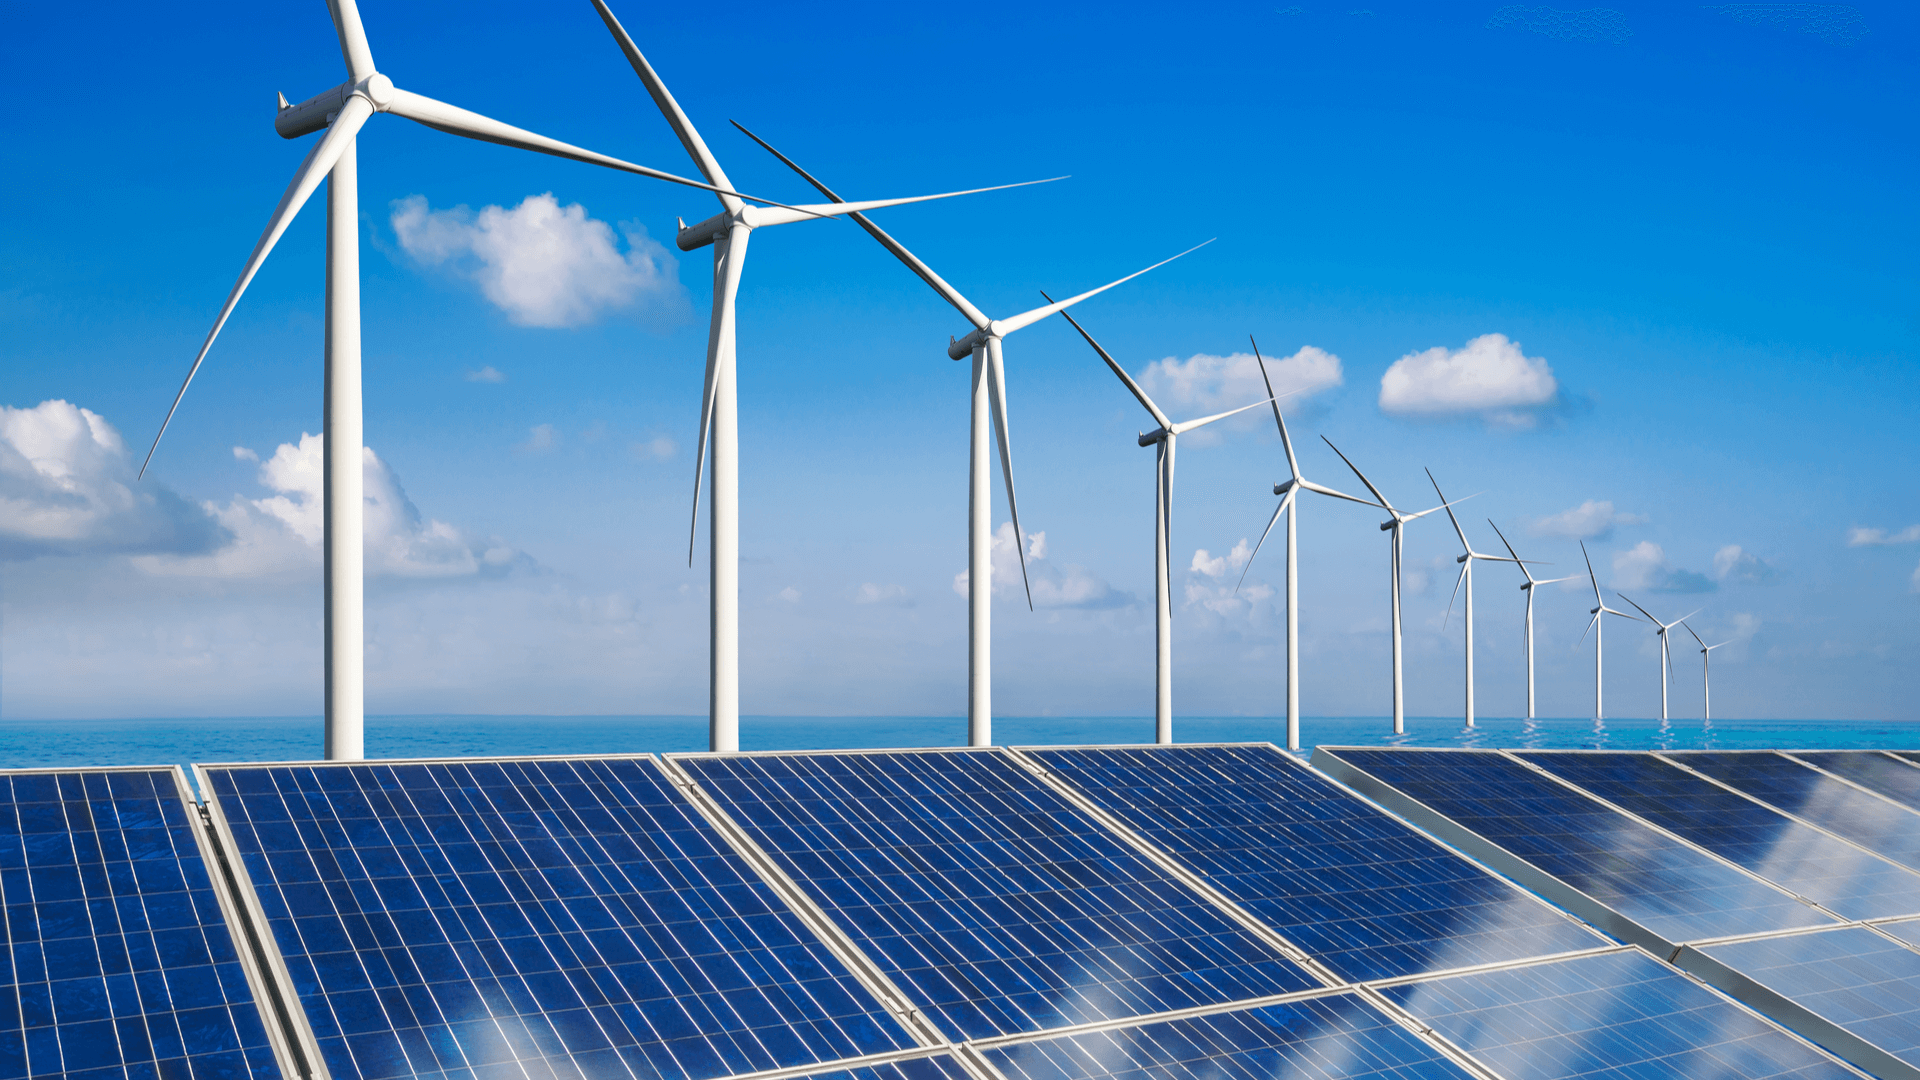
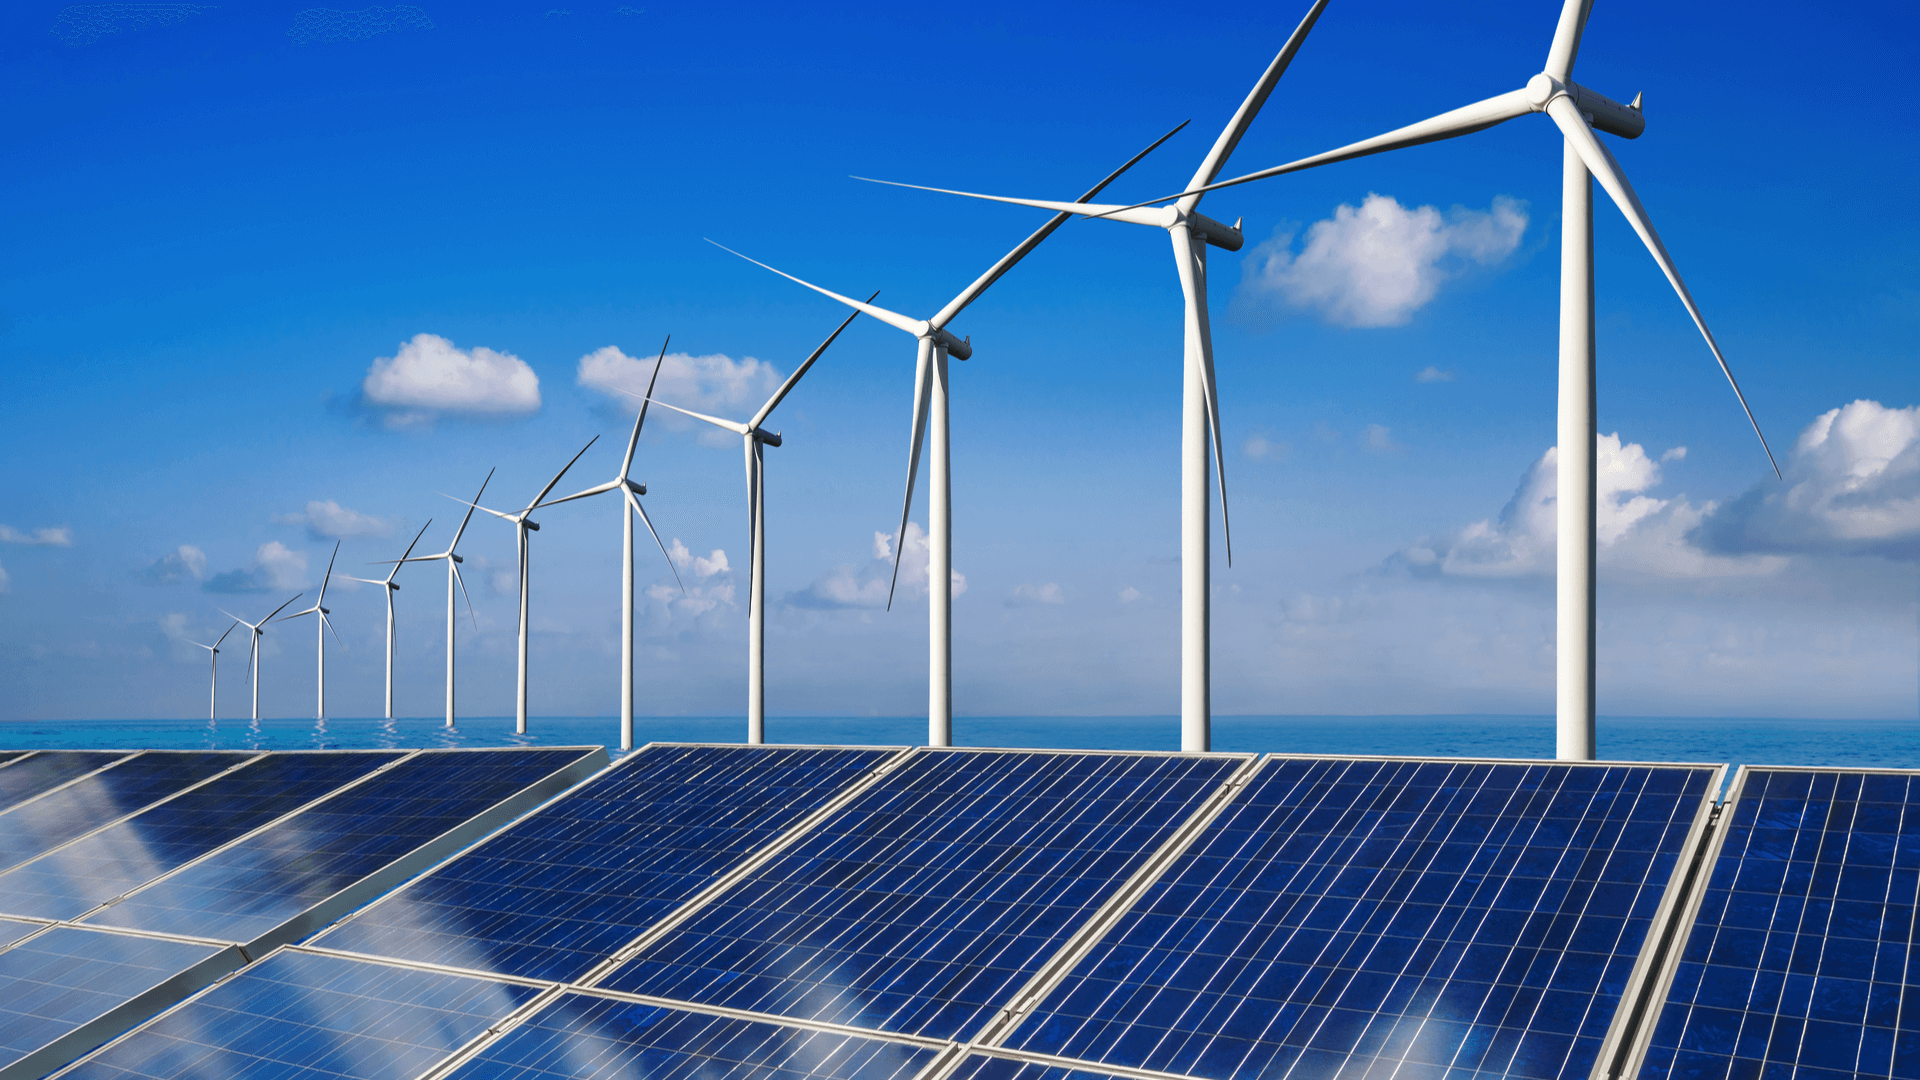
feat: service page images less

diff --git a/pages/services.tsx b/pages/services.tsx
@@ -10,10 +10,6 @@ import {
   servicesBannerImgUrl,
   services3WindImgUrl,
   services2ShipImgUrl,
-  services3ConstructionImgUrl,
-  services5AnalysisImgUrl,
-  services5Analysis2ImgUrl,
-  services5RiskImgUrl,
 } from 'common/imgUrls';
 import { HiOutlineCursorClick } from 'react-icons/hi';
 import 'photoswipe/dist/photoswipe.css';
@@ -42,7 +38,7 @@ export default function Services() {
         </div>
       </section>
       <div className="grid grid-cols-1 md:grid-cols-4">
-        <div className='col-span-1 md:col-span-3 relative overflow-hidden h-36 md:h-96'>
+        <div className='col-span-1 md:col-span-2 relative overflow-hidden h-36 md:h-96'>
           <GradientBg background="linear-gradient(rgba(255,255,255,0.85), rgb(224,242,248,0.5),rgb(224,242,248,0.1),rgb(224,242,248,0.5), rgb(255,255,255,0.85))" />
           <BannerImage
             url={services2ShipImgUrl}
@@ -57,70 +53,33 @@ export default function Services() {
             titleClassName="top-[11%] left-[10%]"
           />
         </div>
-      </div>
-      <div className="grid grid-cols-1 md:grid-cols-4">
-        <div className='col-span-1 md:col-span-2 relative overflow-hidden h-36 md:h-96'>
-          <GradientBg background="linear-gradient(rgba(255,255,255,0.85), rgb(224,242,248,0.3),rgb(224,242,248,0.1),rgb(224,242,248,0.3), rgb(255,255,255,0.85))" />
-          <BannerImage
-            url={services3ConstructionImgUrl}
-            styles={{
-              backgroundPosition: 'initial',
-            }}
-          />
-        </div>
         <div className='col-span-1 md:col-span-1 overflow-hidden h-48 md:h-96'>
           <PortalClickItem
             index={1}
             titleClassName="top-[11%] right-[66%]"
           />
         </div>
-        <div className='col-span-1 md:col-span-1 relative overflow-hidden h-36 md:h-96'>
-          <GradientBg background="linear-gradient(rgba(255,255,255,0.85), transparent, transparent, transparent, rgb(255,255,255,0.85))" />
-          <BannerImage
-            url={services3WindImgUrl}
-            styles={{
-              backgroundPosition: 'initial',
-            }}
-          />
-        </div>
       </div>
       <div className="grid grid-cols-1 md:grid-cols-4">
-        <div className='col-span-1 md:col-span-1 relative overflow-hidden h-36 md:h-96'>
-          <GradientBg background="linear-gradient(rgba(255,255,255,0.85), transparent, transparent, rgb(224,242,248,0.3), rgb(255,255,255,0.85))" />
-          <BannerImage
-            url={services5AnalysisImgUrl}
-            styles={{
-              backgroundPositionX: '100%',
-            }}
-          />
-        </div>
         <div className='col-span-1 md:col-span-1 overflow-hidden h-48 md:h-96'>
           <PortalClickItem
             index={2}
             titleClassName="top-[8%] left-8 w-80 items-center"
           />
         </div>
-        <div className='col-span-1 md:col-span-2 relative overflow-hidden h-36 md:h-96'>  
-          <GradientBg background="linear-gradient(rgba(255,255,255,0.85), rgb(224,242,248,0.3),transparent,rgb(224,242,248,0.3), rgb(255,255,255,0.85))" />
-          <BannerImage
-            url={services5Analysis2ImgUrl}
-          />
-        </div>
-      </div>
-      <div className="grid grid-cols-1 md:grid-cols-4 static">
         <div className='col-span-1 md:col-span-1 overflow-hidden h-48 md:h-96'>
-          <PortalClickItem
-            index={3}
-            titleClassName="top-[11%] right-[66%]"
-            isOther
-          />
+        <PortalClickItem
+          index={3}
+          titleClassName="top-[11%] right-[66%]"
+          isOther
+        />
         </div>
-        <div className='col-span-1 md:col-span-3 relative overflow-hidden h-36 md:h-96'>
-          <GradientBg background="linear-gradient(rgba(255,255,255,0.6), rgb(224,242,248,0.5),rgb(224,242,248,0.2),rgb(224,242,248,0.3), rgb(255,255,255,0.5))" />
+        <div className='col-span-1 md:col-span-2 relative overflow-hidden h-36 md:h-96'>
+          <GradientBg background="linear-gradient(rgba(255,255,255,0.85), transparent, transparent, transparent, rgb(255,255,255,0.85))" />
           <BannerImage
-            url={services5RiskImgUrl}
+            url={services3WindImgUrl}
             styles={{
-              backgroundPosition: 'center 20%'
+              backgroundPosition: 'initial',
             }}
           />
         </div>

diff --git a/common/imgUrls.ts b/common/imgUrls.ts
@@ -40,23 +40,11 @@ export const aboutFounderImgUrl = `${domain}/about-founder.png`;
 //https://www.shutterstock.com/zh-Hant/image-photo/wave-boat-on-beach-background-waves-1542535259
 export const servicesBannerImgUrl = `${domain}/services-banner.png`;
 
-// unknown https://www.shutterstock.com/zh-Hant/image-photo/electrical-engineers-using-laptops-monitor-operation-1773902651
-export const services3ConstructionImgUrl = `${domain}/services-3-construction.png`;
-
 // https://www.shutterstock.com/zh-Hant/image-photo/solar-energy-panel-photovoltaic-cell-wind-1421845307
 export const services3WindImgUrl = `${domain}/services-3-wind.png`;
 
 // https://www.shutterstock.com/zh-Hant/image-photo/webinar-banner-aerial-top-view-cargo-1846546738
 export const services2ShipImgUrl = `${domain}/services-2-ship.png`;
-
-// unknown https://www.shutterstock.com/zh/image-photo/businessman-collects-wooden-puzzles-word-risk-1405516823
-export const services5RiskImgUrl = `${domain}/services-5-risk.png`;
-
-// unknown https://www.shutterstock.com/zh-Hant/image-photo/businessman-hand-working-new-modern-computer-736790485
-export const services5AnalysisImgUrl = `${domain}/services-5-analysis.png`;
-
-// unknown https://www.shutterstock.com/zh-Hant/image-photo/analyzing-sales-data-431666989
-export const services5Analysis2ImgUrl = `${domain}/services-5-analysis2.png`;
 
 // https://www.shutterstock.com/zh-Hant/image-photo/law-concept-man-dark-blue-suit-2076650119
 export const contactBannerImgUrl = `${domain}/contact-banner.png`;
